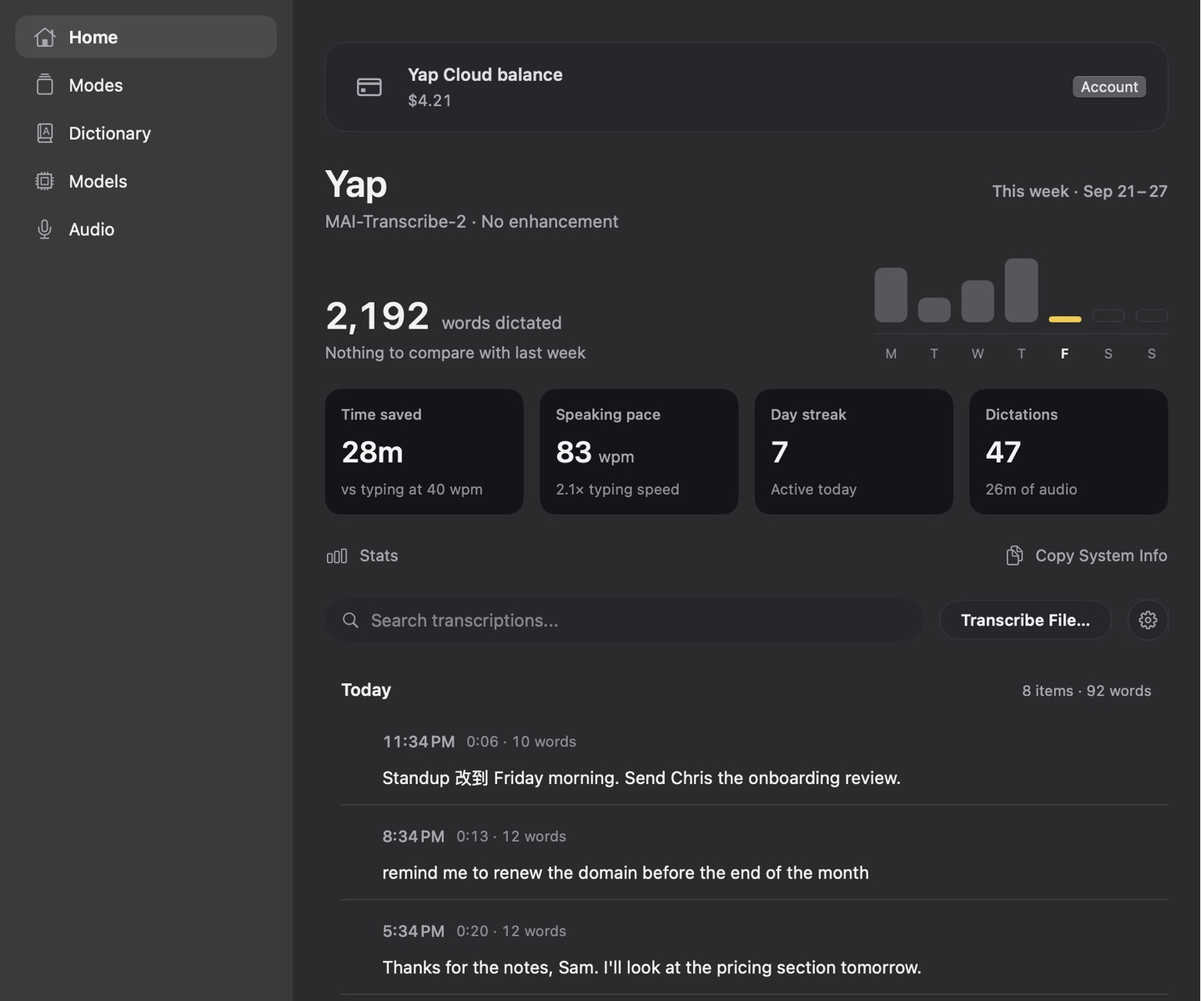
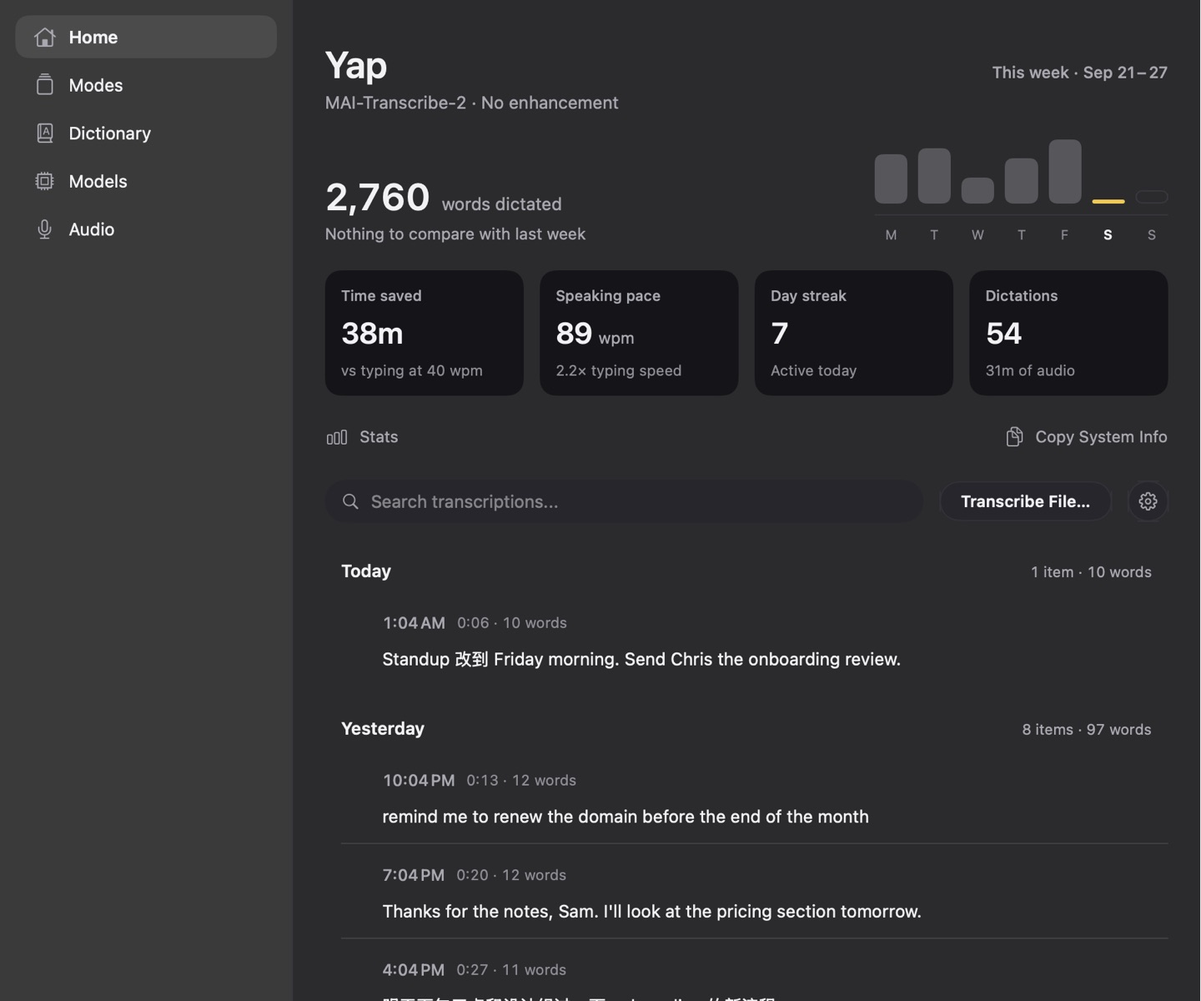
Site: Yap as an open-source dictation app first; Yap Cloud is one of three ways to run it
Order: open source (GitHub link in the nav and a Star button in the hero, GPL, fork of VoiceInk) and
install or build from source (make local) → the mixed-language demo → three equal ways to run it (local
model fully offline, your own key, Yap Cloud) → privacy → FAQ. Money only appears in the Yap Cloud card;
the old pricing and sync sections are folded into it, and 'Is Yap free?' no longer talks prices. Sign in
is gone from the nav (the dashboard isn't public). The star count comes from GitHub's API and shows from
10 up. Hero, og.png and titles refreshed: Home no longer shows a balance.

diff --git a/site/index.html b/site/index.html
@@ -3,22 +3,22 @@
 <head>
 <meta charset="utf-8">
 <meta name="viewport" content="width=device-width, initial-scale=1">
-<title>Yap — dictation for Mac, in Chinese, English or both</title>
+<title>Yap — open-source dictation for Mac, in Chinese, English or both</title>
 <meta name="description" content="Hold a shortcut, talk in Chinese, English or both, and let go: Yap pastes clean text into any Mac app. Free and open source.">
 <meta name="color-scheme" content="light dark">
 <link rel="canonical" href="https://yap.sma1lboy.me/">
 <!-- Share previews. og.png is 1200×630: the app's Home (make ui-snapshots fake data) with the brand. -->
 <meta property="og:type" content="website">
 <meta property="og:site_name" content="Yap">
-<meta property="og:title" content="Yap — dictation for Mac, in Chinese, English or both">
+<meta property="og:title" content="Yap — open-source dictation for Mac, in Chinese, English or both">
 <meta property="og:description" content="Hold a shortcut, talk, let go: Yap pastes clean text into any Mac app. Free and open source.">
 <meta property="og:url" content="https://yap.sma1lboy.me/">
 <meta property="og:image" content="https://yap.sma1lboy.me/assets/og.png">
 <meta property="og:image:width" content="1200">
 <meta property="og:image:height" content="630">
-<meta property="og:image:alt" content="Yap: Hold a key. Talk. Let go. Next to the app's Home screen.">
+<meta property="og:image:alt" content="Yap, free and open-source dictation for Mac: Hold a key. Talk. Let go. Next to the app's Home screen.">
 <meta name="twitter:card" content="summary_large_image">
-<meta name="twitter:title" content="Yap — dictation for Mac, in Chinese, English or both">
+<meta name="twitter:title" content="Yap — open-source dictation for Mac, in Chinese, English or both">
 <meta name="twitter:description" content="Hold a shortcut, talk, let go: Yap pastes clean text into any Mac app. Free and open source.">
 <meta name="twitter:image" content="https://yap.sma1lboy.me/assets/og.png">
 <!-- Icons from design/logo.svg: rounded tile for tabs, full-bleed square where the OS masks it. -->
@@ -39,15 +39,16 @@
     <a class="brand" href="#top"><img src="assets/logo-96.png" alt="" width="28" height="28">Yap</a>
     <nav class="site-nav" aria-label="Sections">
       <a href="#demo"><span lang="en">How it works</span><span lang="zh-Hans">演示</span></a>
-      <a href="#pricing"><span lang="en">Pricing</span><span lang="zh-Hans">价格</span></a>
-      <a href="#sync"><span lang="en">Sync</span><span lang="zh-Hans">同步</span></a>
+      <a href="#models"><span lang="en">Models</span><span lang="zh-Hans">三种用法</span></a>
       <a href="#privacy"><span lang="en">Privacy</span><span lang="zh-Hans">隐私</span></a>
       <a href="#faq">FAQ</a>
     </nav>
     <div class="header-actions">
       <button class="btn btn--quiet" type="button" id="lang-toggle" aria-label="Switch language / 切换语言">中文</button>
-      <!-- The Yap Cloud account dashboard (paygate). On phones the header keeps Sign in; Download is in the hero. -->
-      <a class="btn btn--quiet" href="https://cloud.yap.sma1lboy.me/"><span lang="en">Sign in</span><span lang="zh-Hans">登录</span></a>
+      <a class="btn btn--quiet gh-link" href="https://github.com/Sma1lboy/yap" aria-label="Yap on GitHub">
+        <svg viewBox="0 0 16 16" aria-hidden="true"><path fill="currentColor" d="M8 0C3.58 0 0 3.58 0 8c0 3.54 2.29 6.53 5.47 7.59.4.07.55-.17.55-.38 0-.19-.01-.82-.01-1.49-2.01.37-2.53-.49-2.69-.94-.09-.23-.48-.94-.82-1.13-.28-.15-.68-.52-.01-.53.63-.01 1.08.58 1.23.82.72 1.21 1.87.87 2.33.66.07-.52.28-.87.51-1.07-1.78-.2-3.64-.89-3.64-3.95 0-.87.31-1.59.82-2.15-.08-.2-.36-1.02.08-2.12 0 0 .67-.21 2.2.82.64-.18 1.32-.27 2-.27.68 0 1.36.09 2 .27 1.53-1.04 2.2-.82 2.2-.82.44 1.1.16 1.92.08 2.12.51.56.82 1.27.82 2.15 0 3.07-1.87 3.75-3.65 3.95.29.25.54.73.54 1.48 0 1.07-.01 1.93-.01 2.2 0 .21.15.46.55.38A8.013 8.013 0 0016 8c0-4.42-3.58-8-8-8z"/></svg>
+        GitHub<span class="gh-stars" data-stars hidden></span>
+      </a>
       <a class="btn btn--secondary hide-narrow" href="https://github.com/Sma1lboy/yap/releases/latest/download/Yap.zip"><span lang="en">Download</span><span lang="zh-Hans">下载</span></a>
     </div>
   </div>
@@ -58,32 +59,65 @@
 <section class="hero" id="top">
   <div class="wrap hero-grid">
     <div>
+      <p class="eyebrow"><span lang="en">Open-source dictation for Mac</span><span lang="zh-Hans">开源的 Mac 听写 app</span></p>
       <h1><span lang="en">Hold a key. Talk. Let go.</span><span lang="zh-Hans">按住快捷键，说话，松开。</span></h1>
-      <p class="lede" lang="en">Yap is dictation for the Mac. Talk in English, Chinese or both in one sentence; when you let go, clean text is pasted into whatever app you're in.</p>
-      <p class="lede" lang="zh-Hans">Yap 是 Mac 上的听写工具。中英混着说也行；一松开，整理好的文字就粘贴进你正在用的 app。</p>
+      <p class="lede" lang="en">Talk in English, Chinese or both in one sentence; when you let go, clean text is pasted into whatever app you're in. Yap is free and open source under the GPL: read the code, build it yourself, run it on a local model.</p>
+      <p class="lede" lang="zh-Hans">中英混着说也行；一松开，整理好的文字就粘贴进你正在用的 app。Yap 免费开源（GPL）：代码可以看，可以自己编译，也可以只用本机的模型。</p>
       <div class="hero-actions">
         <a class="btn btn--primary btn--lg" href="https://github.com/Sma1lboy/yap/releases/latest/download/Yap.zip">
           <svg viewBox="0 0 16 16" aria-hidden="true"><path d="M8 2v8m0 0-3-3m3 3 3-3M3 13h10" fill="none" stroke="currentColor" stroke-width="1.6" stroke-linecap="round" stroke-linejoin="round"/></svg>
           <span lang="en">Download for Mac</span><span lang="zh-Hans">下载 Mac 版</span>
         </a>
-        <a class="btn btn--secondary btn--lg" href="#install"><span lang="en">Install with Homebrew</span><span lang="zh-Hans">用 Homebrew 安装</span></a>
+        <a class="btn btn--secondary btn--lg" href="https://github.com/Sma1lboy/yap">
+          <svg viewBox="0 0 16 16" aria-hidden="true"><path d="M8 1.5l1.9 3.9 4.3.6-3.1 3 .7 4.3L8 11.3l-3.8 2 .7-4.3-3.1-3 4.3-.6z" fill="none" stroke="currentColor" stroke-width="1.4" stroke-linejoin="round"/></svg>
+          <span lang="en">Star on GitHub</span><span lang="zh-Hans">在 GitHub 上 Star</span><span class="gh-stars" data-stars hidden></span>
+        </a>
       </div>
-      <p class="hero-meta"><span lang="en">Free and open source (GPL-3.0) · macOS 15 or later</span><span lang="zh-Hans">免费开源（GPL-3.0）· 需要 macOS 15 或更高版本</span></p>
+      <p class="hero-meta"><span lang="en">GPL-3.0 · a fork of VoiceInk · macOS 15 or later</span><span lang="zh-Hans">GPL-3.0 · fork 自 VoiceInk · 需要 macOS 15 或更高版本</span></p>
     </div>
     <figure style="margin: 0">
       <div class="window">
         <div class="window-bar" aria-hidden="true"><i></i><i></i><i></i></div>
         <picture lang="en">
           <source srcset="assets/home-dark.jpg" media="(prefers-color-scheme: dark)">
-          <img src="assets/home-light.jpg" width="1440" height="1200" alt="Yap's Home: Yap Cloud balance, this week's words dictated and time saved, and today's transcripts mixing English and Chinese.">
+          <img src="assets/home-light.jpg" width="1440" height="1200" alt="Yap's Home: this week's words dictated and time saved, and today's transcripts mixing English and Chinese.">
         </picture>
         <picture lang="zh-Hans">
           <source srcset="assets/home-zh-dark.jpg" media="(prefers-color-scheme: dark)">
-          <img src="assets/home-zh-light.jpg" width="1440" height="1200" alt="Yap 的主页：Yap Cloud 余额、本周听写的字数和节省的时间，以及今天中英混说的转写记录。">
+          <img src="assets/home-zh-light.jpg" width="1440" height="1200" alt="Yap 的主页：本周听写的字数和节省的时间，以及今天中英混说的转写记录。">
         </picture>
       </div>
       <figcaption class="shot-caption"><span lang="en">The app, with sample data.</span><span lang="zh-Hans">app 实际界面，数据是示例。</span></figcaption>
     </figure>
+  </div>
+</section>
+
+<section id="install">
+  <div class="wrap split">
+    <div>
+      <p class="eyebrow"><span lang="en">Install, or build it yourself</span><span lang="zh-Hans">安装，或者自己编译</span></p>
+      <h2><span lang="en">Homebrew, a download, or the source.</span><span lang="zh-Hans">Homebrew、直接下载，或者从源码编译。</span></h2>
+      <p class="fine" lang="en">Homebrew installs Yap and keeps it updated; the app also updates itself. Building from source needs Xcode: <code>make local</code> puts <code>Yap.app</code> in your Downloads folder.</p>
+      <p class="fine" lang="zh-Hans">Homebrew 负责安装和更新，app 自己也会检查更新。从源码编译需要 Xcode：<code>make local</code> 会把 <code>Yap.app</code> 放进“下载”文件夹。</p>
+    </div>
+    <div class="stack">
+      <div>
+        <div class="code"><pre id="brew-cmd">brew tap sma1lboy/yap https://github.com/Sma1lboy/yap
+brew install --cask sma1lboy/yap/yap</pre></div>
+        <div class="code-actions">
+          <span class="fine" style="margin: 0"><span lang="en">Homebrew</span><span lang="zh-Hans">Homebrew</span></span>
+          <button class="btn btn--secondary" type="button" data-copy="brew-cmd"><span lang="en">Copy</span><span lang="zh-Hans">复制</span></button>
+        </div>
+      </div>
+      <div>
+        <div class="code"><pre id="build-cmd">git clone https://github.com/Sma1lboy/yap && cd yap
+make local</pre></div>
+        <div class="code-actions">
+          <span class="fine" style="margin: 0"><span lang="en">From source</span><span lang="zh-Hans">从源码编译</span></span>
+          <button class="btn btn--secondary" type="button" data-copy="build-cmd"><span lang="en">Copy</span><span lang="zh-Hans">复制</span></button>
+        </div>
+      </div>
+    </div>
   </div>
 </section>
 
@@ -120,88 +154,43 @@
   </div>
 </section>
 
-<section id="pricing">
+<section id="models">
   <div class="wrap">
-    <p class="eyebrow"><span lang="en">Two ways to run it</span><span lang="zh-Hans">两种用法</span></p>
-    <h2><span lang="en">Same models either way. Pick how you pay.</span><span lang="zh-Hans">模型一样，选一种付费方式。</span></h2>
-    <p class="intro" lang="en">MAI-Transcribe-2 turns speech into text and DeepSeek V4.1 Flash cleans it up. Choose during setup and switch any time.</p>
-    <p class="intro" lang="zh-Hans">MAI-Transcribe-2 负责转写，DeepSeek V4.1 Flash 负责整理。首次设置时选一种，之后随时可以换。</p>
-    <div class="plans">
+    <p class="eyebrow"><span lang="en">Three ways to run it</span><span lang="zh-Hans">三种用法</span></p>
+    <h2><span lang="en">Pick where your voice goes.</span><span lang="zh-Hans">声音交给谁处理，你来选。</span></h2>
+    <p class="intro" lang="en">Choose during setup and switch any time, per mode if you like.</p>
+    <p class="intro" lang="zh-Hans">首次设置时选一种，之后随时可以换，也可以每个模式用不同的。</p>
+    <div class="plans plans--three">
       <article class="plan">
-        <h3>Yap Cloud <span class="tag"><span lang="en">Easiest</span><span lang="zh-Hans">最省事</span></span></h3>
-        <p class="tagline"><span lang="en">No API keys. Pay for what you use.</span><span lang="zh-Hans">不用 API key，用多少付多少。</span></p>
-        <!-- Numbers from paygate GET /v1/info (2026-09-25): signupCreditUsd 1, markup 0.1, minTopupUsd 5,
-             maxTopupUsd 500. Update here when they change; the app reads them live. -->
-        <div class="price">$1</div>
-        <p class="price-note"><span lang="en">free credit for new accounts</span><span lang="zh-Hans">新账户赠送额度</span></p>
+        <h3><span lang="en">Local model</span><span lang="zh-Hans">本地模型</span></h3>
+        <p class="tagline"><span lang="en">Fully offline. Nothing leaves your Mac.</span><span lang="zh-Hans">完全离线，什么都不离开这台 Mac。</span></p>
         <ul class="checks">
-          <li><span lang="en">Sign in with your email and a 6-digit code</span><span lang="zh-Hans">邮箱加 6 位验证码登录</span></li>
-          <li><span lang="en">Each request costs the model's price plus 10%</span><span lang="zh-Hans">每次调用按模型价格加 10% 计费</span></li>
-          <li><span lang="en">Top up $5 to $500 by card, through Stripe</span><span lang="zh-Hans">通过 Stripe 刷卡充值，每次 $5–$500</span></li>
-          <li><span lang="en">Balance, monthly cap and every charge in the app</span><span lang="zh-Hans">余额、月度上限和每一笔扣费都在 app 里看得到</span></li>
+          <li><span lang="en">NVIDIA Parakeet, Whisper and more, downloaded in Settings</span><span lang="zh-Hans">NVIDIA Parakeet、Whisper 等模型，在设置里下载</span></li>
+          <li><span lang="en">Works without an internet connection</span><span lang="zh-Hans">没有网络也能用</span></li>
+          <li><span lang="en">Cleanup can run locally too (Yap Refine, Ollama)</span><span lang="zh-Hans">整理也可以在本地做（Yap Refine、Ollama）</span></li>
         </ul>
       </article>
       <article class="plan">
-        <h3><span lang="en">Your OpenRouter key</span><span lang="zh-Hans">自带 OpenRouter key</span></h3>
-        <p class="tagline"><span lang="en">Pay OpenRouter directly.</span><span lang="zh-Hans">费用直接付给 OpenRouter。</span></p>
-        <div class="price">~$0.13</div>
-        <p class="price-note"><span lang="en">per hour of speech, at OpenRouter's prices</span><span lang="zh-Hans">每小时语音，按 OpenRouter 的价格</span></p>
+        <h3><span lang="en">Your own key</span><span lang="zh-Hans">自带 key</span></h3>
+        <p class="tagline"><span lang="en">OpenRouter or any provider you already use.</span><span lang="zh-Hans">OpenRouter，或者你已经在用的任何提供商。</span></p>
         <ul class="checks">
-          <li><span lang="en">Paste your key once; it stays in this Mac's Keychain</span><span lang="zh-Hans">粘贴一次 key，只存在这台 Mac 的钥匙串里</span></li>
-          <li><span lang="en">Requests go straight to OpenRouter, never through Yap</span><span lang="zh-Hans">请求直接发给 OpenRouter，不经过 Yap</span></li>
-          <li><span lang="en">Or use any other provider's key</span><span lang="zh-Hans">也可以用其他提供商的 key</span></li>
+          <li><span lang="en">Paste a key once; it stays in this Mac's Keychain</span><span lang="zh-Hans">粘贴一次 key，只存在这台 Mac 的钥匙串里</span></li>
+          <li><span lang="en">Requests go straight to the provider, never through Yap</span><span lang="zh-Hans">请求直接发给提供商，不经过 Yap</span></li>
+          <li><span lang="en">The default setup is tuned for mixed Chinese–English speech</span><span lang="zh-Hans">默认设置为中英混说调过</span></li>
+        </ul>
+      </article>
+      <article class="plan">
+        <h3>Yap Cloud</h3>
+        <p class="tagline"><span lang="en">If you'd rather not get a key: the same models, pay as you go.</span><span lang="zh-Hans">不想自己申请 key 的话：模型一样，按用量付费。</span></p>
+        <!-- The only place on the page that talks about money. Figures from paygate GET /v1/info (2026-09-25):
+             signupCreditUsd 1, markup 0.1, minTopupUsd 5, maxTopupUsd 500. -->
+        <ul class="checks">
+          <li><span lang="en">Sign in with your email; new accounts get $1 to try it</span><span lang="zh-Hans">用邮箱登录；新账户送 $1 试用</span></li>
+          <li><span lang="en">Each request costs the model's price plus 10%; top up $5 to $500 through Stripe</span><span lang="zh-Hans">每次调用按模型价格加 10% 计费；通过 Stripe 充值，每次 $5–$500</span></li>
+          <li><span lang="en">Optional: keep your settings in sync across Macs</span><span lang="zh-Hans">可选：在多台 Mac 之间同步设置</span></li>
         </ul>
       </article>
     </div>
-    <p class="plans-foot" lang="en">Prefer nothing leaving your Mac? Download NVIDIA's Parakeet model in Settings and dictate offline, for free. Yap Cloud figures are from its <code>/v1/info</code> endpoint (September 2026).</p>
-    <p class="plans-foot" lang="zh-Hans">不想让任何东西离开这台 Mac？在设置里下载 NVIDIA 的 Parakeet 模型，离线听写，不花钱。Yap Cloud 的数字来自它的 <code>/v1/info</code> 接口（2026 年 9 月）。</p>
-  </div>
-</section>
-
-<section id="install">
-  <div class="wrap split">
-    <div>
-      <p class="eyebrow"><span lang="en">Install</span><span lang="zh-Hans">安装</span></p>
-      <h2><span lang="en">Two commands, or one download.</span><span lang="zh-Hans">两行命令，或者直接下载。</span></h2>
-      <p class="fine" lang="en">Homebrew installs Yap and keeps it updated; the app also updates itself. Builds are signed with a stable self-signed certificate but not notarized; Homebrew clears the quarantine flag for you.</p>
-      <p class="fine" lang="zh-Hans">Homebrew 负责安装和更新，app 自己也会检查更新。每个版本都用同一张自签名证书签名，但没有经过 Apple 公证；用 Homebrew 安装会自动去掉隔离标记。</p>
-    </div>
-    <div>
-      <div class="code">
-        <pre id="brew-cmd">brew tap sma1lboy/yap https://github.com/Sma1lboy/yap
-brew install --cask sma1lboy/yap/yap</pre>
-      </div>
-      <div class="code-actions">
-        <a class="fine" style="margin: 0" href="https://github.com/Sma1lboy/yap/releases/latest"><span lang="en">All releases on GitHub</span><span lang="zh-Hans">GitHub 上的所有版本</span></a>
-        <button class="btn btn--secondary" type="button" data-copy="brew-cmd"><span lang="en">Copy commands</span><span lang="zh-Hans">复制命令</span></button>
-      </div>
-    </div>
-  </div>
-</section>
-
-<section id="sync">
-  <div class="wrap split">
-    <div>
-      <p class="eyebrow"><span lang="en">Across your Macs</span><span lang="zh-Hans">跨 Mac 同步</span></p>
-      <h2><span lang="en">The same setup on every Mac.</span><span lang="zh-Hans">每台 Mac 同一套设置。</span></h2>
-      <p class="intro" lang="en">Modes, prompts, dictionary and shortcuts live in one file, <code>~/.config/yap/config.json</code>. Turn on Sync via Yap Cloud and every Mac signed in to your account keeps it the same.</p>
-      <p class="intro" lang="zh-Hans">模式、提示词、词典和快捷键都在一个文件里：<code>~/.config/yap/config.json</code>。打开“通过 Yap Cloud 同步”，登录同一账户的每台 Mac 都保持一致。</p>
-      <ul class="points">
-        <li><h3><span lang="en">Edit anywhere</span><span lang="zh-Hans">哪里改都行</span></h3><p lang="en">In the app or in the file. Edits from different Macs are merged; what you delete stays deleted.</p><p lang="zh-Hans">在 app 里改或直接改文件。不同 Mac 的改动会合并，删掉的不会回来。</p></li>
-        <li><h3><span lang="en">New Mac in one step</span><span lang="zh-Hans">新 Mac 一步恢复</span></h3><p lang="en">The first setup screen signs in and restores everything.</p><p lang="zh-Hans">首次设置的第一屏就能登录，全部恢复。</p></li>
-        <li><h3><span lang="en">Version history</span><span lang="zh-Hans">版本历史</span></h3><p lang="en">Earlier versions are listed in Settings; restore any of them.</p><p lang="zh-Hans">设置里能看到之前的版本，可以恢复任意一个。</p></li>
-        <li><h3><span lang="en">Keys stay put</span><span lang="zh-Hans">key 不上传</span></h3><p lang="en">API keys are never uploaded; each Mac keeps its own.</p><p lang="zh-Hans">API key 永远不会上传，每台 Mac 各存各的。</p></li>
-      </ul>
-    </div>
-    <figure style="margin: 0">
-      <div class="window">
-        <div class="window-bar" aria-hidden="true"><i></i><i></i><i></i></div>
-        <picture>
-          <source srcset="assets/version-history-dark.jpg" media="(prefers-color-scheme: dark)">
-          <img src="assets/version-history-light.jpg" width="1280" height="1040" loading="lazy" alt="Settings › Config & Sync › Version History: three earlier versions with the date and the Mac that wrote each.">
-        </picture>
-      </div>
-    </figure>
   </div>
 </section>
 
@@ -232,7 +221,7 @@ brew install --cask sma1lboy/yap/yap</pre>
     <p class="eyebrow">FAQ</p>
     <h2><span lang="en">Questions</span><span lang="zh-Hans">常见问题</span></h2>
     <div class="faq" lang="en">
-      <details><summary>Is Yap free?</summary><div>The app is free and open source. You pay only for cloud transcription: through Yap Cloud or your own OpenRouter key. Local models cost nothing.</div></details>
+      <details><summary>Is Yap free?</summary><div>Yes. The app is free and open source (GPL-3.0), and local models run on your Mac at no cost. Cloud models are billed by whoever runs them: your own provider, or Yap Cloud if you use it.</div></details>
       <details><summary>Which languages does it understand?</summary><div>English, Chinese, and both in the same sentence — that's what the default setup is tuned for. Other languages depend on the model you choose.</div></details>
       <details><summary>Does it work offline?</summary><div>Yes, with a local model such as NVIDIA's Parakeet, downloaded in Settings. Yap Cloud and API keys need a connection.</div></details>
       <details><summary>Why does macOS ask for Microphone and Accessibility?</summary><div>Microphone to hear you; Accessibility to paste into the app you're using. Screen Recording is optional: it lets Yap read what's on screen to spell names right.</div></details>
@@ -250,7 +239,7 @@ brew install --cask sma1lboy/yap/yap</pre>
       </div></details>
     </div>
     <div class="faq" lang="zh-Hans">
-      <details><summary>Yap 收费吗？</summary><div>app 免费开源。只有云端转写要花钱：通过 Yap Cloud，或者用你自己的 OpenRouter key。本地模型不花钱。</div></details>
+      <details><summary>Yap 收费吗？</summary><div>不收费。app 免费开源（GPL-3.0），本地模型在你的 Mac 上跑，不花钱。云端模型由提供方收费：你自己的提供商，或者你选用的 Yap Cloud。</div></details>
       <details><summary>支持哪些语言？</summary><div>英文、中文，以及一句话里中英混说，默认设置就是为这个调的。其他语言取决于你选的模型。</div></details>
       <details><summary>能离线用吗？</summary><div>能，用本地模型（例如在设置里下载 NVIDIA 的 Parakeet）。Yap Cloud 和 API key 需要联网。</div></details>
       <details><summary>为什么要麦克风和辅助功能权限？</summary><div>麦克风用来听你说话；辅助功能用来把文字粘贴进你正在用的 app。屏幕录制是可选的，用来读屏幕上的内容，把人名、术语拼对。</div></details>
@@ -283,8 +272,8 @@ brew install --cask sma1lboy/yap/yap</pre>
         <h4><span lang="en">Product</span><span lang="zh-Hans">产品</span></h4>
         <ul>
           <li><a href="https://github.com/Sma1lboy/yap/releases/latest/download/Yap.zip"><span lang="en">Download</span><span lang="zh-Hans">下载</span></a></li>
-          <li><a href="#pricing"><span lang="en">Pricing</span><span lang="zh-Hans">价格</span></a></li>
-          <li><a href="https://cloud.yap.sma1lboy.me/"><span lang="en">Yap Cloud account</span><span lang="zh-Hans">Yap Cloud 账户</span></a></li>
+          <li><a href="#models"><span lang="en">Three ways to run it</span><span lang="zh-Hans">三种用法</span></a></li>
+          <li><a href="https://github.com/Sma1lboy/yap"><span lang="en">Source code</span><span lang="zh-Hans">源代码</span></a></li>
           <li><a href="https://github.com/Sma1lboy/yap/releases"><span lang="en">Release notes</span><span lang="zh-Hans">更新说明</span></a></li>
         </ul>
       </div>
@@ -335,19 +324,31 @@ brew install --cask sma1lboy/yap/yap</pre>
 
   // ---- Copy ----
   document.querySelectorAll("[data-copy]").forEach(function (button) {
+    var labels = button.querySelectorAll("span");
+    var original = [labels[0].textContent, labels[1].textContent];
     button.addEventListener("click", function () {
       var text = document.getElementById(button.getAttribute("data-copy")).textContent;
-      var labels = button.querySelectorAll("span");
       function done(ok) {
         labels[0].textContent = ok ? "Copied" : "Select and copy";
         labels[1].textContent = ok ? "已复制" : "请手动复制";
-        setTimeout(function () { labels[0].textContent = "Copy commands"; labels[1].textContent = "复制命令"; }, 1600);
+        setTimeout(function () { labels[0].textContent = original[0]; labels[1].textContent = original[1]; }, 1600);
       }
       if (navigator.clipboard && navigator.clipboard.writeText) {
         navigator.clipboard.writeText(text).then(function () { done(true); }, function () { done(false); });
       } else { done(false); }
     });
   });
+
+  // ---- GitHub stars (public API; the count stays hidden if the request fails, is rate-limited, or is under 10) ----
+  if (window.fetch) {
+    fetch("https://api.github.com/repos/Sma1lboy/yap").then(function (r) { return r.ok ? r.json() : null; })
+      .then(function (repo) {
+        // Under 10 the number reads as "abandoned" more than as information; the link says enough.
+        if (!repo || typeof repo.stargazers_count !== "number" || repo.stargazers_count < 10) return;
+        var count = repo.stargazers_count >= 1000 ? (repo.stargazers_count / 1000).toFixed(1) + "k" : String(repo.stargazers_count);
+        document.querySelectorAll("[data-stars]").forEach(function (el) { el.textContent = count; el.hidden = false; });
+      }).catch(function () {});
+  }
 
   // ---- Demo: words appear as spoken, filler is struck out on release, then the clean text types in ----
   // Each word: [text, isFiller]. Same examples in both languages; only the labels change.

diff --git a/site/site.css b/site/site.css
@@ -161,3 +161,9 @@ p { margin: 0 0 var(--space-3); }
 .site-footer a { color: var(--text-2); }
 .site-footer a:hover { color: var(--text); }
 .site-footer .credit { margin-top: var(--space-8); color: var(--text-3); max-width: 60em; }
+
+/* ---------- Open source & three ways ---------- */
+.stack { display: grid; gap: var(--space-4); }
+.stack > *, .split > * { min-width: 0; }
+.gh-stars { font-variant-numeric: tabular-nums; color: var(--text-2); padding-left: var(--space-2); margin-left: var(--space-1); border-left: 1px solid var(--border); }
+.plans--three { grid-template-columns: repeat(auto-fit, minmax(min(100%, 260px), 1fr)); }
